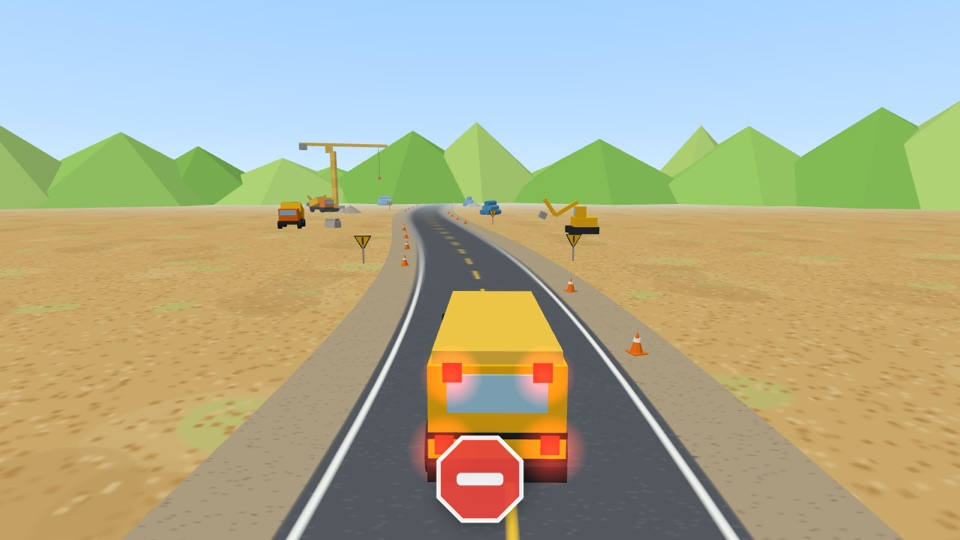
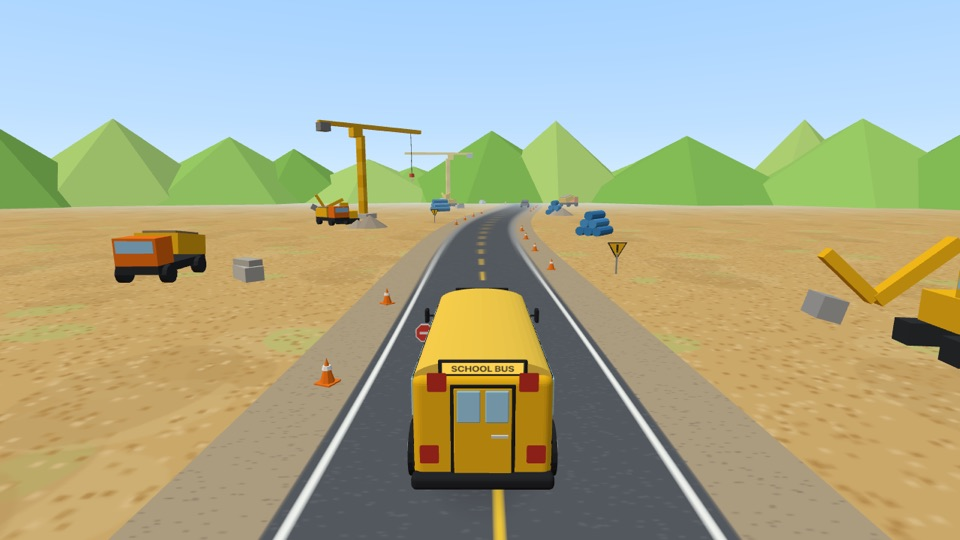
feat: enhance Bus model with detailed geometry and stop arm functionality

diff --git a/src/vehicle/Bus.ts b/src/vehicle/Bus.ts
@@ -1,20 +1,143 @@
 import * as THREE from 'three';
+import { RoundedBoxGeometry } from 'three/examples/jsm/geometries/RoundedBoxGeometry.js';
 import type { VehicleState } from '../driving/VehicleController';
 import { CONFIG } from '../game/config';
-import { box, buildColoredGeometry, cyl, makeCanvas } from '../world/geometry';
+import { box, buildColoredGeometry, cyl, ico, makeCanvas, type ColoredPart } from '../world/geometry';
 import type { VehicleModel } from './VehicleModel';
 
 const BUS_YELLOW = '#ffc21a';
+const ROOF_YELLOW = '#ffd34f';
 const BLACK = '#26282c';
+const DARK = '#3a3d42';
 const GLASS = '#a6dcff';
+const CHROME = '#d9dde2';
 const WHITE = '#fafafa';
 const WHEEL_RADIUS = 0.55;
 const LIGHT_DIM = new THREE.Color('#8a2018');
 const LIGHT_ON = new THREE.Color('#ff2a1a');
 
+/** Front axle sits under the hood, rear axle under the body. */
+const FRONT_AXLE_Z = -3.2;
+const REAR_AXLE_Z = 2.3;
+
 interface BrakeLight {
   material: THREE.MeshBasicMaterial;
   glow: THREE.Sprite;
+}
+
+const rbox = (w: number, h: number, d: number, r: number, segments = 3) => new RoundedBoxGeometry(w, h, d, segments, r);
+
+/** Upper half of a cylinder lying along Z, squashed into a gently domed roof. */
+function domedRoof(width: number, length: number, rise: number): THREE.BufferGeometry {
+  const g = new THREE.CylinderGeometry(width / 2, width / 2, length, 18, 1, false, Math.PI / 2, Math.PI);
+  g.rotateX(Math.PI / 2);
+  g.scale(1, rise / (width / 2), 1);
+  return g;
+}
+
+/** Black arch over a wheel on the body side (half torus in the YZ plane). */
+function wheelArch(x: number, z: number): ColoredPart {
+  const g = new THREE.TorusGeometry(0.7, 0.07, 6, 14, Math.PI);
+  g.rotateY(Math.PI / 2);
+  return { geometry: g, color: BLACK, position: [x, 0.56, z] };
+}
+
+function bodyParts(): ColoredPart[] {
+  const parts: ColoredPart[] = [
+    // Body shell with rounded edges and a domed roof.
+    { geometry: rbox(2.5, 2.0, 6.2, 0.18, 4), color: BUS_YELLOW, position: [0, 1.55, 0.4] },
+    { geometry: domedRoof(2.44, 6.0, 0.32), color: ROOF_YELLOW, position: [0, 2.5, 0.4] },
+
+    // Hood, sloping slightly down to the front, with black fenders over the front wheels.
+    { geometry: rbox(2.1, 1.0, 1.6, 0.22, 4), color: BUS_YELLOW, position: [0, 1.08, -3.42], rotation: [-0.05, 0, 0] },
+    { geometry: rbox(0.5, 0.34, 1.4, 0.14), color: BLACK, position: [-1.05, 1.0, FRONT_AXLE_Z] },
+    { geometry: rbox(0.5, 0.34, 1.4, 0.14), color: BLACK, position: [1.05, 1.0, FRONT_AXLE_Z] },
+
+    // Grille with chrome bars.
+    { geometry: rbox(1.25, 0.74, 0.08, 0.04, 2), color: DARK, position: [0, 1.08, -4.22] },
+    // Headlights: chrome rim + warm lens; small amber indicators below.
+    { geometry: cyl(0.2, 0.2, 0.08, 14), color: CHROME, position: [-0.8, 1.16, -4.18], rotation: [Math.PI / 2, 0, 0] },
+    { geometry: cyl(0.2, 0.2, 0.08, 14), color: CHROME, position: [0.8, 1.16, -4.18], rotation: [Math.PI / 2, 0, 0] },
+    { geometry: cyl(0.15, 0.15, 0.1, 14), color: '#fff6d6', position: [-0.8, 1.16, -4.2], rotation: [Math.PI / 2, 0, 0] },
+    { geometry: cyl(0.15, 0.15, 0.1, 14), color: '#fff6d6', position: [0.8, 1.16, -4.2], rotation: [Math.PI / 2, 0, 0] },
+    { geometry: rbox(0.22, 0.1, 0.05, 0.02, 1), color: '#ffa31a', position: [-0.8, 0.88, -4.2] },
+    { geometry: rbox(0.22, 0.1, 0.05, 0.02, 1), color: '#ffa31a', position: [0.8, 0.88, -4.2] },
+
+    // Bumpers.
+    { geometry: rbox(2.5, 0.28, 0.32, 0.1), color: BLACK, position: [0, 0.55, -4.3] },
+    { geometry: rbox(2.56, 0.28, 0.3, 0.1), color: BLACK, position: [0, 0.6, 3.52] },
+
+    // Black rub rails along the sides.
+    { geometry: rbox(2.54, 0.1, 6.0, 0.05, 1), color: BLACK, position: [0, 1.25, 0.4] },
+    { geometry: rbox(2.54, 0.1, 6.0, 0.05, 1), color: BLACK, position: [0, 0.82, 0.4] },
+
+    // Windscreen: two panes in a black frame, leaning back slightly.
+    { geometry: rbox(2.3, 1.02, 0.04, 0.02, 1), color: BLACK, position: [0, 2.05, -2.71], rotation: [0.08, 0, 0] },
+    { geometry: rbox(1.04, 0.86, 0.05, 0.02, 1), color: GLASS, position: [-0.56, 2.05, -2.74], rotation: [0.08, 0, 0] },
+    { geometry: rbox(1.04, 0.86, 0.05, 0.02, 1), color: GLASS, position: [0.56, 2.05, -2.74], rotation: [0.08, 0, 0] },
+
+    // Window band: black behind, so the gaps between panes read as window pillars.
+    { geometry: rbox(2.52, 0.94, 5.2, 0.05, 1), color: BLACK, position: [0, 2.02, 0.65] },
+
+    // Folding entry door (right side, front).
+    { geometry: rbox(0.04, 1.7, 0.78, 0.02, 1), color: BLACK, position: [1.265, 1.4, -2.25] },
+    { geometry: rbox(0.05, 1.5, 0.32, 0.02, 1), color: GLASS, position: [1.28, 1.42, -2.43] },
+    { geometry: rbox(0.05, 1.5, 0.32, 0.02, 1), color: GLASS, position: [1.28, 1.42, -2.07] },
+
+    // Rear emergency door (yellow, black outline) with two windows and a handle.
+    { geometry: rbox(1.15, 1.8, 0.04, 0.03, 1), color: BLACK, position: [0, 1.5, 3.505] },
+    { geometry: rbox(1.03, 1.68, 0.04, 0.03, 1), color: BUS_YELLOW, position: [0, 1.5, 3.515] },
+    { geometry: rbox(0.42, 0.6, 0.05, 0.03, 1), color: GLASS, position: [-0.25, 2.0, 3.53] },
+    { geometry: rbox(0.42, 0.6, 0.05, 0.03, 1), color: GLASS, position: [0.25, 2.0, 3.53] },
+    { geometry: box(0.3, 0.05, 0.06), color: CHROME, position: [0.3, 1.45, 3.54] },
+
+    // Boards for the SCHOOL BUS signs on the roof edge.
+    { geometry: rbox(1.56, 0.3, 0.06, 0.03, 1), color: BLACK, position: [0, 2.68, 3.43] },
+    { geometry: rbox(1.56, 0.3, 0.06, 0.03, 1), color: BLACK, position: [0, 2.68, -2.63] },
+
+    // Amber roof warning lights at the front.
+    { geometry: rbox(0.3, 0.18, 0.12, 0.04, 1), color: '#ff9f1a', position: [-0.8, 2.45, -2.68] },
+    { geometry: rbox(0.3, 0.18, 0.12, 0.04, 1), color: '#ff9f1a', position: [0.8, 2.45, -2.68] },
+
+    // Side mirrors on arms, plus the round cross-view mirrors on the hood corners.
+    { geometry: cyl(0.03, 0.03, 0.5, 5), color: BLACK, position: [-1.4, 1.95, -2.75], rotation: [0, 0, Math.PI / 2] },
+    { geometry: cyl(0.03, 0.03, 0.5, 5), color: BLACK, position: [1.4, 1.95, -2.75], rotation: [0, 0, Math.PI / 2] },
+    { geometry: rbox(0.12, 0.42, 0.26, 0.05, 2), color: BLACK, position: [-1.65, 1.95, -2.75] },
+    { geometry: rbox(0.12, 0.42, 0.26, 0.05, 2), color: BLACK, position: [1.65, 1.95, -2.75] },
+    { geometry: cyl(0.025, 0.025, 0.45, 5), color: BLACK, position: [-1.0, 1.75, -4.05] },
+    { geometry: cyl(0.025, 0.025, 0.45, 5), color: BLACK, position: [1.0, 1.75, -4.05] },
+    { geometry: ico(0.13, 1), color: BLACK, position: [-1.0, 2.0, -4.05] },
+    { geometry: ico(0.13, 1), color: BLACK, position: [1.0, 2.0, -4.05] },
+
+    // Wheel arches on the body sides (rear axle).
+    wheelArch(-1.27, REAR_AXLE_Z),
+    wheelArch(1.27, REAR_AXLE_Z),
+
+    // Small fuel cap.
+    { geometry: cyl(0.09, 0.09, 0.03, 10), color: CHROME, position: [-1.27, 1.0, 1.3], rotation: [0, 0, Math.PI / 2] },
+  ];
+
+  // Five side windows per side.
+  for (let i = 0; i < 5; i++) {
+    const z = -1.55 + i * 1.08;
+    parts.push({ geometry: rbox(0.05, 0.72, 0.88, 0.02, 1), color: GLASS, position: [-1.27, 2.03, z] });
+    parts.push({ geometry: rbox(0.05, 0.72, 0.88, 0.02, 1), color: GLASS, position: [1.27, 2.03, z] });
+  }
+  // Chrome bars across the grille.
+  for (let i = 0; i < 4; i++) {
+    parts.push({ geometry: box(1.08, 0.05, 0.04), color: CHROME, position: [0, 0.82 + i * 0.17, -4.27] });
+  }
+  return parts;
+}
+
+function wheelParts(width: number): ColoredPart[] {
+  const side = width / 2;
+  return [
+    { geometry: cyl(WHEEL_RADIUS, WHEEL_RADIUS, width, 18), color: BLACK, rotation: [0, 0, Math.PI / 2] },
+    { geometry: cyl(0.34, 0.34, width + 0.02, 14), color: '#cfd3d8', rotation: [0, 0, Math.PI / 2] },
+    { geometry: cyl(0.14, 0.18, 0.08, 10), color: '#8a8f96', position: [side + 0.03, 0, 0], rotation: [0, 0, Math.PI / 2] },
+    { geometry: cyl(0.14, 0.18, 0.08, 10), color: '#8a8f96', position: [-side - 0.03, 0, 0], rotation: [0, 0, Math.PI / 2] },
+  ];
 }
 
 /** Friendly low-poly yellow school bus facing -Z. */
@@ -23,52 +146,20 @@ export class Bus implements VehicleModel {
   private readonly body = new THREE.Group();
   private readonly wheels: THREE.Mesh[] = [];
   private readonly lights: BrakeLight[] = [];
+  /** Stop-sign arm on the driver's side; swings out when the bus stands still. */
+  private readonly stopArm = new THREE.Group();
   private prevSpeed: number | null = null;
   private brakeStart: number | null = null;
 
   constructor() {
     const material = new THREE.MeshLambertMaterial({ vertexColors: true, flatShading: true });
-    const windows: Parameters<typeof buildColoredGeometry>[0] = [];
-    for (let i = 0; i < 5; i++) {
-      const z = -1.4 + i * 1.05;
-      windows.push({ geometry: box(0.05, 0.75, 0.8), color: GLASS, position: [-1.26, 2.0, z] });
-      windows.push({ geometry: box(0.05, 0.75, 0.8), color: GLASS, position: [1.26, 2.0, z] });
-    }
-
-    const bodyGeometry = buildColoredGeometry([
-      // Main box
-      { geometry: box(2.5, 2.0, 6.2), color: BUS_YELLOW, position: [0, 1.55, 0.4] },
-      // Roof
-      { geometry: box(2.35, 0.25, 6.0), color: '#ffd24d', position: [0, 2.67, 0.4] },
-      // Hood
-      { geometry: box(2.2, 1.1, 1.5), color: BUS_YELLOW, position: [0, 1.1, -3.3] },
-      // Black stripes
-      { geometry: box(2.54, 0.12, 6.24), color: BLACK, position: [0, 1.25, 0.4] },
-      { geometry: box(2.54, 0.12, 6.24), color: BLACK, position: [0, 0.75, 0.4] },
-      // Windscreen
-      { geometry: box(2.2, 0.9, 0.05), color: GLASS, position: [0, 2.05, -2.72] },
-      // Rear window
-      { geometry: box(1.8, 0.7, 0.05), color: GLASS, position: [0, 2.05, 3.52] },
-      // Bumpers
-      { geometry: box(2.4, 0.3, 0.25), color: BLACK, position: [0, 0.6, -4.1] },
-      { geometry: box(2.5, 0.3, 0.25), color: BLACK, position: [0, 0.6, 3.55] },
-      // Headlights and tail lights
-      { geometry: cyl(0.16, 0.16, 0.08, 10), color: WHITE, position: [-0.75, 1.25, -4.06], rotation: [Math.PI / 2, 0, 0] },
-      { geometry: cyl(0.16, 0.16, 0.08, 10), color: WHITE, position: [0.75, 1.25, -4.06], rotation: [Math.PI / 2, 0, 0] },
-      // Roof lights
-      { geometry: box(0.3, 0.18, 0.12), color: '#ff9f1a', position: [-0.8, 2.45, -2.66] },
-      { geometry: box(0.3, 0.18, 0.12), color: '#ff9f1a', position: [0.8, 2.45, -2.66] },
-      // Side mirrors
-      { geometry: box(0.1, 0.35, 0.25), color: BLACK, position: [-1.45, 1.9, -2.6] },
-      { geometry: box(0.1, 0.35, 0.25), color: BLACK, position: [1.45, 1.9, -2.6] },
-      ...windows,
-    ]);
-    const bodyMesh = new THREE.Mesh(bodyGeometry, material);
-    this.body.add(bodyMesh);
+    this.body.add(new THREE.Mesh(buildColoredGeometry(bodyParts()), material));
+    this.body.add(...createSchoolBusSigns());
+    this.body.add(this.createStopArm(material));
 
     // Tail lights and school-bus roof lights, all flashing together.
     const glowTexture = createGlowTexture();
-    const lightGeometry = new THREE.BoxGeometry(0.34, 0.34, 0.06);
+    const lightGeometry = new RoundedBoxGeometry(0.34, 0.34, 0.06, 2, 0.06);
     for (const [x, y, size] of [
       [-0.95, 1.1, 1.3],
       [0.95, 1.1, 1.3],
@@ -77,7 +168,7 @@ export class Bus implements VehicleModel {
     ] as const) {
       const lightMaterial = new THREE.MeshBasicMaterial({ color: LIGHT_DIM.clone() });
       const light = new THREE.Mesh(lightGeometry, lightMaterial);
-      light.position.set(x, y, 3.56);
+      light.position.set(x, y, 3.53);
       const glow = new THREE.Sprite(
         new THREE.SpriteMaterial({
           map: glowTexture,
@@ -94,17 +185,15 @@ export class Bus implements VehicleModel {
       this.lights.push({ material: lightMaterial, glow });
     }
 
-    const wheelGeometry = buildColoredGeometry([
-      { geometry: cyl(WHEEL_RADIUS, WHEEL_RADIUS, 0.4, 14), color: BLACK, rotation: [0, 0, Math.PI / 2] },
-      { geometry: cyl(0.25, 0.25, 0.42, 8), color: '#c9c9c9', rotation: [0, 0, Math.PI / 2] },
-    ]);
-    for (const [x, z] of [
-      [-1.2, -2.9],
-      [1.2, -2.9],
-      [-1.2, 2.3],
-      [1.2, 2.3],
-    ]) {
-      const wheel = new THREE.Mesh(wheelGeometry, material);
+    const frontWheel = buildColoredGeometry(wheelParts(0.42));
+    const rearWheel = buildColoredGeometry(wheelParts(0.56)); // dual rear wheels read wider
+    for (const [x, z, geometry] of [
+      [-1.2, FRONT_AXLE_Z, frontWheel],
+      [1.2, FRONT_AXLE_Z, frontWheel],
+      [-1.17, REAR_AXLE_Z, rearWheel],
+      [1.17, REAR_AXLE_Z, rearWheel],
+    ] as const) {
+      const wheel = new THREE.Mesh(geometry, material);
       wheel.position.set(x, WHEEL_RADIUS, z);
       this.wheels.push(wheel);
       this.object.add(wheel);
@@ -127,6 +216,10 @@ export class Bus implements VehicleModel {
     const pitch = THREE.MathUtils.clamp(accel * 0.006, -0.04, 0.02);
     this.body.rotation.x += (pitch - this.body.rotation.x) * (1 - Math.exp(-10 * dtSec));
 
+    // Like a real school bus: the STOP arm swings out while standing still.
+    const armTarget = state.speed < 0.3 ? -Math.PI / 2 : 0;
+    this.stopArm.rotation.y += (armTarget - this.stopArm.rotation.y) * (1 - Math.exp(-6 * dtSec));
+
     // Flash while the brake is held (kept under 3 Hz for photosensitivity safety).
     // Timed from the moment braking starts, so the lights come on instantly.
     if (!state.braking) this.brakeStart = null;
@@ -138,6 +231,53 @@ export class Bus implements VehicleModel {
       light.glow.visible = on;
     }
   }
+
+  private createStopArm(material: THREE.Material): THREE.Group {
+    // Octagon faces sideways when folded against the body; the hinge is at its front edge.
+    // Octagon axis along X; the extra 22.5° turn puts a flat side on top, like a real stop sign.
+    const octagon: [number, number, number] = [Math.PI / 8, 0, Math.PI / 2];
+    const sign = new THREE.Mesh(
+      buildColoredGeometry([
+        { geometry: cyl(0.3, 0.3, 0.03, 8), color: WHITE, rotation: octagon },
+        { geometry: cyl(0.26, 0.26, 0.05, 8), color: '#e8453c', rotation: octagon },
+        { geometry: box(0.06, 0.08, 0.3), color: WHITE },
+        // Short arm back to the hinge.
+        { geometry: box(0.03, 0.04, 0.14), color: BLACK, position: [0, 0, -0.34] },
+      ]),
+      material,
+    );
+    sign.position.set(0, 0, 0.4);
+    this.stopArm.add(sign);
+    this.stopArm.position.set(-1.32, 1.45, -2.6);
+    return this.stopArm;
+  }
+}
+
+/** "SCHOOL BUS" boards on the roof edge, front and back. */
+function createSchoolBusSigns(): THREE.Mesh[] {
+  const { canvas, ctx } = makeCanvas(256, 48);
+  ctx.fillStyle = '#ffd34f';
+  ctx.fillRect(0, 0, 256, 48);
+  ctx.strokeStyle = BLACK;
+  ctx.lineWidth = 4;
+  ctx.strokeRect(2, 2, 252, 44);
+  ctx.fillStyle = BLACK;
+  ctx.font = 'bold 30px system-ui, sans-serif';
+  ctx.textAlign = 'center';
+  ctx.textBaseline = 'middle';
+  ctx.fillText('SCHOOL BUS', 128, 26);
+  const texture = new THREE.CanvasTexture(canvas);
+  texture.colorSpace = THREE.SRGBColorSpace;
+  texture.anisotropy = 4;
+  const material = new THREE.MeshBasicMaterial({ map: texture });
+  const geometry = new THREE.PlaneGeometry(1.46, 0.24);
+
+  const rear = new THREE.Mesh(geometry, material);
+  rear.position.set(0, 2.68, 3.465);
+  const front = new THREE.Mesh(geometry, material);
+  front.position.set(0, 2.68, -2.665);
+  front.rotation.y = Math.PI;
+  return [rear, front];
 }
 
 function createGlowTexture(): THREE.Texture {
@@ -159,10 +299,10 @@ function createBlobShadow(): THREE.Mesh {
   ctx.fillStyle = g;
   ctx.fillRect(0, 0, 128, 128);
   const mesh = new THREE.Mesh(
-    new THREE.PlaneGeometry(3.6, 8.6),
+    new THREE.PlaneGeometry(3.6, 8.8),
     new THREE.MeshBasicMaterial({ map: new THREE.CanvasTexture(canvas), transparent: true, depthWrite: false }),
   );
   mesh.rotation.x = -Math.PI / 2;
-  mesh.position.set(0, 0.04, -0.3);
+  mesh.position.set(0, 0.04, -0.4);
   return mesh;
 }
